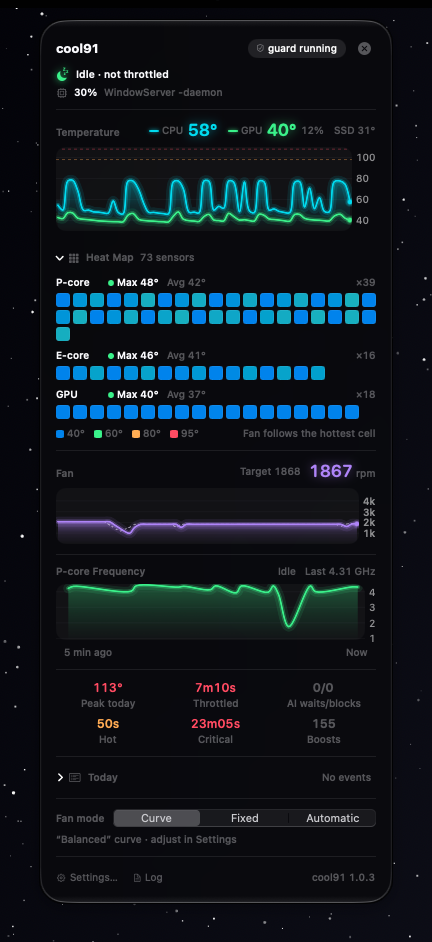
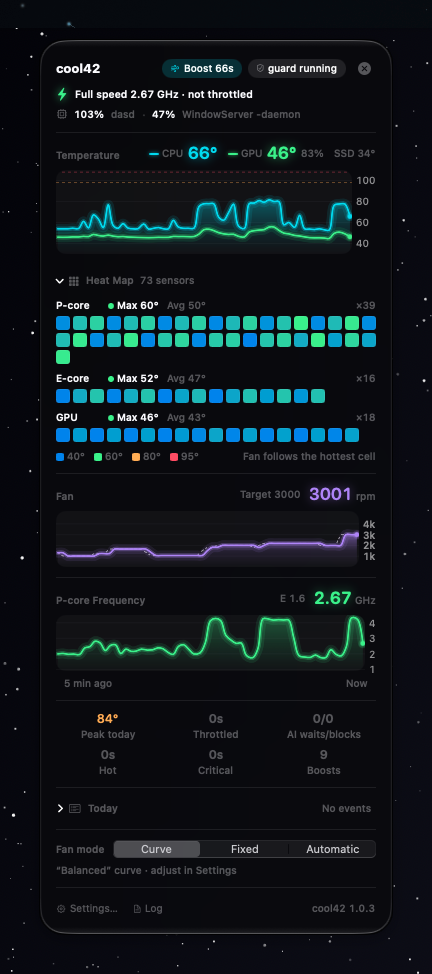
實機截圖改用 cool42 重截；玻璃對照圖拿掉 Dock 與桌面 widget
- glass-compare.png：只留四種背景下的面板並排，Dock 的第三方 app 圖示與桌面 widget 不再入鏡
  （公開 repo 不放別人的商標）；和 Dock 逐像素比對的數字寫在圖說
- panel-glass-{dark,light,en-dark,en-light}.png 用改名後的 cool42 重截，畫面不再是舊名
- README 中英拿掉「截圖為改名前 cool42 時期」註記
- 截圖都用 OCR 掃過（行程列只有系統行程，沒有舊名與個人資訊）

Claude-Session: https://claude.ai/code/session_01BF2QgA34kv7XpZyA5rVvwZ

diff --git a/README.en.md b/README.en.md
@@ -13,7 +13,7 @@
 
 <sub>The hero's three numbers are from the 2026-09-25 same-machine test (CPU + GPU load; the stock steady state is a single run, see [Data](#data)); the panel on its right is a real capture from a different scenario (an ffmpeg 4K encode).</sub>
 
-<sub>The panel in the GIF and hero above is rendered off-screen on a **solid background** (what you see with Reduce Transparency on; the colour is sampled from the real dark glass). On macOS 26 and later the real panel is a borderless Liquid Glass window: clear glass with a dark tint (a lighter white tint in light appearance, so the colours underneath show through), directional light on the top and bottom edges only — like the Dock — a 26pt corner radius and no solid cards: the same dark, see-through look as the Dock and desktop widgets. The two shots below are real screen captures (taken before the rename, so the panel still reads cool42; `scripts/snapshot/capture-glass.sh`, live data, a controlled starfield and a colourful gradient behind the panel); a side-by-side with the Dock and a widget, including 4× corners and per-pixel edge brightness, is in [`glass-compare.png`](docs/img/screens/glass-compare.png):</sub>
+<sub>The panel in the GIF and hero above is rendered off-screen on a **solid background** (what you see with Reduce Transparency on; the colour is sampled from the real dark glass). On macOS 26 and later the real panel is a borderless Liquid Glass window: clear glass with a dark tint (a lighter white tint in light appearance, so the colours underneath show through), directional light on the top and bottom edges only — like the Dock — a 26pt corner radius and no solid cards: the same dark, see-through look as the Dock and desktop widgets. The two shots below are real screen captures (`scripts/snapshot/capture-glass.sh`, live data, a controlled starfield and a colourful gradient behind the panel); a side-by-side with the Dock and a widget, including 4× corners and per-pixel edge brightness, is in [`glass-compare.png`](docs/img/screens/glass-compare.png):</sub>
 
 <p align="center"><img src="docs/img/screens/panel-glass-en-dark.png" width="300" alt="Real capture: Liquid Glass panel, dark appearance over a starfield wallpaper"> <img src="docs/img/screens/panel-glass-en-light.png" width="300" alt="Real capture: Liquid Glass panel, light appearance over a colourful gradient (the colours show through)"></p>
 

diff --git a/README.md b/README.md
@@ -13,7 +13,7 @@
 
 <sub>hero 的三個數字出自 2026-09-25 同機實測（CPU＋GPU 滿載；原廠穩態只有 1 輪，見[數據](#數據)）；右邊的面板是另一個情境（ffmpeg 4K 編碼）的實機取樣。</sub>
 
-<sub>上面 GIF 與 hero 裡的面板是離屏渲染的**實色底**（等同開了「減少透明度」，色值取樣自實機深色玻璃）。macOS 26 以上實機是無邊框的 Liquid Glass 面板：clear 玻璃＋深色 tint（淺色外觀是較淡的白色 tint，底下的顏色透得過來）、和 Dock 一樣只有上下緣的方向光、圓角 26pt，沒有實心卡片，和 Dock、桌面 widget 同一種「深、通透」。下面兩張是實機截圖（截圖為改名前 cool42 時期，畫面上的名稱是舊名；`scripts/snapshot/capture-glass.sh`，即時資料；後面墊的是受控的星空與花俏漸層背景）；與 Dock、widget 的並排對照（含 4× 圓角與窗緣逐像素亮度）在 [`glass-compare.png`](docs/img/screens/glass-compare.png)：</sub>
+<sub>上面 GIF 與 hero 裡的面板是離屏渲染的**實色底**（等同開了「減少透明度」，色值取樣自實機深色玻璃）。macOS 26 以上實機是無邊框的 Liquid Glass 面板：clear 玻璃＋深色 tint（淺色外觀是較淡的白色 tint，底下的顏色透得過來）、和 Dock 一樣只有上下緣的方向光、圓角 26pt，沒有實心卡片，和 Dock、桌面 widget 同一種「深、通透」。下面兩張是實機截圖（`scripts/snapshot/capture-glass.sh`，即時資料；後面墊的是受控的星空與花俏漸層背景）；與 Dock、widget 的並排對照（含 4× 圓角與窗緣逐像素亮度）在 [`glass-compare.png`](docs/img/screens/glass-compare.png)：</sub>
 
 <p align="center"><img src="docs/img/screens/panel-glass-dark.png" width="300" alt="實機截圖：深色外觀、星空桌布上的 Liquid Glass 面板"> <img src="docs/img/screens/panel-glass-light.png" width="300" alt="實機截圖：淺色外觀、花俏漸層背景上的 Liquid Glass 面板（看得到底下的顏色）"></p>
 
